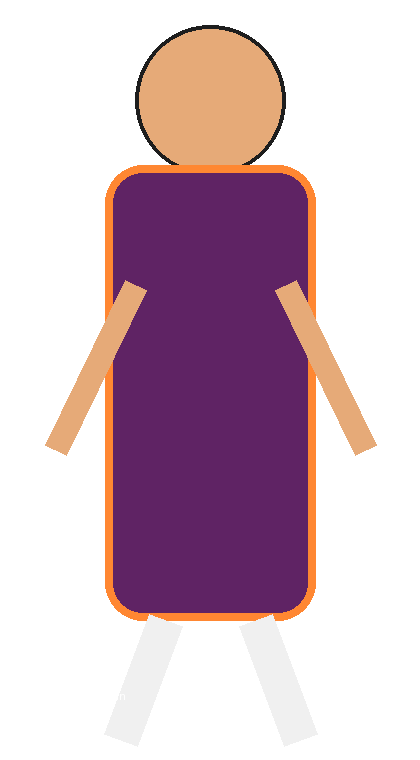
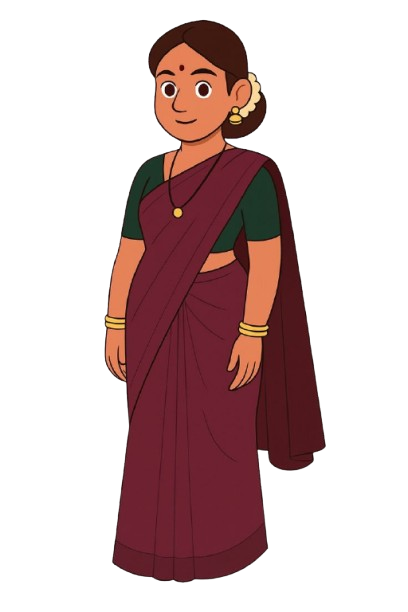
Add files via upload

diff --git a/index.html b/index.html
@@ -1,26 +1,154 @@
-<!DOCTYPE html><html><head><meta charset="UTF-8"><meta name="viewport" content="width=device-width,initial-scale=1"><title>AI Animate Studio V23</title><link rel="stylesheet" href="style.css"></head><body>
-<div class="app"><aside><div class="brand">⚡<b>AI Animate Studio</b><small>V23 One Click Actions</small></div>
-<button onclick="page('create')">🎬 Create Video</button><button onclick="page('projects')">📁 Projects</button><button onclick="page('userLogin')">👤 User Login</button><button onclick="page('adminLogin')">🔐 Admin Login</button><button class="adminBtn" onclick="page('admin')">🛠 Admin Panel</button><button class="adminBtn" onclick="adminLogout()">🚪 Admin Logout</button><div class="note"><b>Admin PIN:</b> 1234<br>One-click action + audio upload ready.</div></aside>
-<main><header><div><h1 id="title">Create Animation Video</h1><p>Script → Scenes → Character Action → Audio → Preview → Export</p></div><div><span id="loginStatus">Guest</span><button onclick="playPreview()">▶ Play</button><button class="primary" onclick="exportVideo()">⬇ Export</button></div></header>
+<!DOCTYPE html>
+<html lang="en">
+<head>
+<meta charset="UTF-8">
+<meta name="viewport" content="width=device-width,initial-scale=1">
+<title>AI Animate Studio V24</title>
+<link rel="stylesheet" href="style.css">
+</head>
+<body>
+<div class="app">
+  <aside class="dash-sidebar">
+    <div class="brand"><span>⚡</span><b>AI Animate</b><em>Studio</em></div>
+    <button class="side-link active" onclick="showPage('dashboard')">🏠 Dashboard</button>
+    <button class="side-link" onclick="showPage('projects')">📦 Projects</button>
+    <button class="side-link" onclick="showPage('editor')">🎬 Animation Studio</button>
+    <button class="side-link" onclick="showPage('adminLogin')">🔐 Admin Login</button>
+    <button class="side-link adminOnly" onclick="showPage('admin')">🛠 Admin Panel</button>
+    <button class="side-link adminOnly" onclick="adminLogout()">🚪 Admin Logout</button>
 
-<section id="create" class="page active"><div class="grid"><div class="panel">
-<h2>1. Story Script</h2><textarea id="scriptText">गावात रोहन नावाचा मुलगा राहत होता. एके दिवशी त्याला जंगलात एक रहस्यमय आवाज ऐकू आला. तो घाबरला पण पुढे गेला. शेवटी त्याने गावाला वाचवले.</textarea><button class="primary full" onclick="generateScenes()">Generate Scenes</button>
-<h2>2. Character</h2><div id="chars" class="cards"></div>
-<h2>3. Background</h2><div id="bgs" class="cards"></div>
-<h2>4. Audio Upload</h2><label class="upload">Upload Voice/Music<input type="file" accept="audio/*" onchange="uploadAudio(event)"></label><audio id="audio" controls style="display:none;width:100%"></audio>
-<button class="full" onclick="saveProject()">Save Local Project</button><button class="full" onclick="loadProject()">Load Saved Project</button></div>
+    <div class="support">❔ Help and Support</div>
+    <div class="profile">
+      <div class="avatar">G</div>
+      <div><b>Gaurav Dahatre</b><small id="planText">Free Plan</small></div>
+      <p><b id="credits">25</b> credits remaining</p>
+      <button class="upgrade">Upgrade to Pro</button>
+    </div>
+  </aside>
 
-<div class="panel"><div class="topline"><h2>Live Preview</h2><div><button onclick="playPreview()">▶</button><button onclick="stopPreview()">⏸</button><button class="primary" onclick="exportVideo()">Export</button></div></div>
-<canvas id="canvas" width="1280" height="720"></canvas><div class="progress"><span id="progress"></span></div>
-<h2>One Click Character Action</h2><div class="actionGrid">
-<button onclick="oneClickAction('Idle')">🙂 Idle</button><button onclick="oneClickAction('Talking')">🗣 Talk</button><button onclick="oneClickAction('Walking')">🚶 Walk</button><button onclick="oneClickAction('Happy')">😊 Happy</button><button onclick="oneClickAction('Angry')">😠 Angry</button><button onclick="oneClickAction('Scared')">😨 Scared</button>
+  <main class="main">
+    <header class="topbar">
+      <div></div>
+      <div class="search">🔍 <input placeholder="Search files, folders"></div>
+      <div class="userIcon">👤</div>
+    </header>
+
+    <section id="dashboard" class="page active">
+      <div class="dash-hero">
+        <h1>Monetize & Grow Faster on YouTube</h1>
+        <p>Grow faster with tailored AI tools that bring you more views, subscribers, and revenue</p>
+        <div class="promptbar">
+          <input id="dashPrompt" value="How to create AI video">
+          <button onclick="dashGenerate()">➤</button>
+        </div>
+        <div class="quick-tools">
+          <div class="tool activeTool" onclick="showPage('editor')"><span>🏃</span><b>Animation Studio</b></div>
+          <div class="tool"><span>🖼</span><b>AI Image</b></div>
+          <div class="tool"><span>🎙</span><b>AI Voice</b></div>
+          <div class="tool"><span>📹</span><b>AI Video</b></div>
+          <div class="tool"><span>📄</span><b>AI Story Writer</b></div>
+          <div class="tool"><span>🧲</span><b>YouTube SEO Writer</b></div>
+          <div class="tool"><span>💬</span><b>YouTube Feedback</b></div>
+        </div>
+      </div>
+
+      <div class="section-head"><h2>Recent Projects</h2><button>View All</button></div>
+      <div class="project-grid" id="recentProjects"></div>
+    </section>
+
+    <section id="editor" class="page">
+      <div class="editor-shell">
+        <aside class="editor-left">
+          <button>🏃<span>Character</span></button>
+          <button>📁<span>Media</span></button>
+          <button>🎞<span>Templates</span></button>
+          <button>🖼<span>Image Gen</span></button>
+          <button>🎥<span>Video Gen</span></button>
+          <button>🎙<span>AI Voice</span></button>
+          <button>🧑🎨<span>AI Character</span></button>
+          <button>🏃<span>Anim IK</span></button>
+          <button>🔤<span>Text</span></button>
+        </aside>
+
+        <div class="editor-main">
+          <div class="editor-top">
+            <button onclick="showPage('dashboard')">← Dashboard</button>
+            <b>New Project</b>
+            <span>ID: 15760847</span>
+            <button onclick="saveProject()">💾 Save</button>
+            <button class="primary" onclick="exportVideo()">⬇ Download</button>
+          </div>
+
+          <div class="canvas-wrap">
+            <canvas id="canvas" width="1280" height="720"></canvas>
+          </div>
+
+          <div class="playbar">
+            <button onclick="selectScene(Math.max(0,selectedScene-1))">⏮</button>
+            <button onclick="playPreview()">▶</button>
+            <button onclick="stopPreview()">⏸</button>
+            <button onclick="selectScene(Math.min(scenes.length-1,selectedScene+1))">⏭</button>
+            <span id="timeText">00:00</span>
+            <button onclick="zoomOut()">−</button>
+            <button onclick="zoomIn()">+</button>
+          </div>
+
+          <div class="editor-actions">
+            <button onclick="addScene()">+ New Scene</button>
+            <button onclick="duplicateScene()">Duplicate</button>
+            <button onclick="deleteScene()">Delete</button>
+            <button onclick="oneClickAction('Walking')">Walk</button>
+            <button onclick="oneClickAction('Talking')">Talk</button>
+            <button onclick="oneClickAction('Idle')">Idle</button>
+            <label class="mini-upload">Audio<input type="file" accept="audio/*" onchange="uploadAudio(event)"></label>
+            <audio id="audio" controls style="display:none"></audio>
+          </div>
+
+          <div class="timeline-editor">
+            <div class="row"><b>Scenes</b><div id="sceneTrack" class="track"></div></div>
+            <div class="row"><b>Character</b><div id="charTrack" class="track"></div></div>
+            <div class="row"><b>Text</b><div id="textTrack" class="track"></div></div>
+            <div class="row"><b>Audio</b><div id="audioTrack" class="track audioTrack">Voice / Music track</div></div>
+          </div>
+        </div>
+
+        <aside class="editor-right">
+          <h3>Asset Library</h3>
+          <button onclick="showPage('admin')">+ Add Assets</button>
+          <h3>Scene Editor</h3>
+          <textarea id="sceneEdit"></textarea>
+          <label>Action</label>
+          <select id="action"><option>Idle</option><option>Talking</option><option>Walking</option><option>Happy</option><option>Angry</option><option>Scared</option></select>
+          <label>Position</label>
+          <select id="pos"><option value="center">Center</option><option value="left">Left</option><option value="right">Right</option></select>
+          <button class="primary full" onclick="updateScene()">Update Scene</button>
+
+          <h3>Characters</h3>
+          <div id="chars" class="small-cards"></div>
+          <h3>Backgrounds</h3>
+          <div id="bgs" class="small-cards"></div>
+          <h3>Export</h3>
+          <button class="primary full" onclick="exportVideo()">Export WebM</button>
+        </aside>
+      </div>
+    </section>
+
+    <section id="adminLogin" class="page">
+      <div class="login panel"><h2>Admin Login</h2><input id="adminPin" type="password" placeholder="PIN"><button class="primary full" onclick="adminLogin()">Login</button><p>PIN: 1234</p></div>
+    </section>
+
+    <section id="admin" class="page">
+      <div class="adminGrid">
+        <div class="panel"><h2>Add Character</h2><input id="charName" placeholder="Character name"><label class="upload">Upload PNG<input type="file" accept="image/*" onchange="pickChar(event)"></label><div id="charPreview" class="previewMini"></div><button class="primary full" onclick="addChar()">Add Character</button></div>
+        <div class="panel"><h2>Add Background</h2><input id="bgName" placeholder="Background name"><label class="upload">Upload Background<input type="file" accept="image/*" onchange="pickBg(event)"></label><div id="bgPreview" class="previewMini"></div><button class="primary full" onclick="addBg()">Add Background</button></div>
+        <div class="panel"><h2>Admin Assets</h2><button class="danger full" onclick="clearAssets()">Clear Added Assets</button><h3>Characters</h3><div id="adminChars"></div><h3>Backgrounds</h3><div id="adminBgs"></div></div>
+      </div>
+    </section>
+
+    <section id="projects" class="page"><div class="panel"><h2>Projects</h2><div id="projects"></div></div></section>
+  </main>
 </div>
-<h2>Timeline</h2><div id="timeline" class="timeline"></div></div>
-
-<div class="panel"><h2>Scene Editor</h2><label>Scene Text</label><textarea id="sceneEdit"></textarea><label>Action</label><select id="action"><option>Idle</option><option>Talking</option><option>Walking</option><option>Happy</option><option>Angry</option><option>Scared</option></select><label>Position</label><select id="pos"><option value="center">Center</option><option value="left">Left</option><option value="right">Right</option></select><button class="primary full" onclick="updateScene()">Update Scene</button><button class="full" onclick="duplicateScene()">Duplicate</button><button class="danger full" onclick="deleteScene()">Delete</button><h3>V23</h3><p>Action buttons scene वर one-click apply होतात. Audio upload करून preview मध्ये play करता येतो.</p></div></div></section>
-
-<section id="adminLogin" class="page"><div class="login panel"><h2>Admin Login</h2><input id="adminPin" type="password" placeholder="PIN"><button class="primary full" onclick="adminLogin()">Login</button></div></section>
-<section id="userLogin" class="page"><div class="login panel"><h2>User Login Demo</h2><input id="userName" placeholder="Your name"><button class="primary full" onclick="userLogin()">Continue</button></div></section>
-<section id="admin" class="page"><div class="adminGrid"><div class="panel"><h2>Add Character</h2><input id="charName" placeholder="Character name"><label class="upload">Upload PNG<input type="file" accept="image/*" onchange="pickChar(event)"></label><div id="charPreview" class="previewMini"></div><button class="primary full" onclick="addChar()">Add Character</button></div><div class="panel"><h2>Add Background</h2><input id="bgName" placeholder="Background name"><label class="upload">Upload Background<input type="file" accept="image/*" onchange="pickBg(event)"></label><div id="bgPreview" class="previewMini"></div><button class="primary full" onclick="addBg()">Add Background</button></div><div class="panel"><h2>Admin Assets</h2><button class="danger full" onclick="clearAssets()">Clear Added Assets</button><h3>Characters</h3><div id="adminChars"></div><h3>Backgrounds</h3><div id="adminBgs"></div></div></div></section>
-<section id="projects" class="page"><div class="panel"><h2>Saved Projects</h2><div id="projects"></div></div></section>
-</main></div><div id="loading" class="loading"><div><h2>Rendering Video...</h2><p>Please wait</p></div></div><script src="script.js"></script></body></html>
+<div id="loading" class="loading"><div><h2>Rendering Video...</h2><p>Please wait</p></div></div>
+<script src="script.js"></script>
+</body>
+</html>

diff --git a/script.js b/script.js
@@ -1,45 +1,43 @@
-const PIN="1234";
-let isAdmin=localStorage.getItem("isAdmin")==="true", user=localStorage.getItem("user")||"Guest";
-const defaultChars=[
-{name:"Village Hero",img:"assets/characters/village-hero/idle.png",frames:["assets/characters/village-hero/walk1.png","assets/characters/village-hero/walk2.png","assets/characters/village-hero/walk3.png","assets/characters/village-hero/walk4.png","assets/characters/village-hero/walk5.png"],talk:"assets/characters/village-hero/talk.png",happy:"assets/characters/village-hero/happy.png",idle:"assets/characters/village-hero/idle.png"},
-{name:"Village Woman",img:"assets/characters/village-woman.png"},
-{name:"Grandmother",img:"assets/characters/grandmother.png"},
-{name:"Villain Man",img:"assets/characters/villain-man.png"}];
+const PIN="1234";let isAdmin=localStorage.getItem("isAdmin")==="true";
+const defaultChars=[{name:"Village Hero",img:"assets/characters/village-hero/idle.png",frames:["assets/characters/village-hero/walk1.png","assets/characters/village-hero/walk2.png","assets/characters/village-hero/walk3.png","assets/characters/village-hero/walk4.png","assets/characters/village-hero/walk5.png"],talk:"assets/characters/village-hero/talk.png",happy:"assets/characters/village-hero/happy.png",idle:"assets/characters/village-hero/idle.png"},{name:"Village Woman",img:"assets/characters/village-woman.png"},{name:"Grandmother",img:"assets/characters/grandmother.png"},{name:"Villain Man",img:"assets/characters/villain-man.png"}];
 const defaultBgs=[{name:"Village",type:"preset",value:"village"},{name:"Forest",type:"preset",value:"forest"},{name:"School",type:"preset",value:"school"},{name:"Horror",type:"preset",value:"horror"},{name:"City",type:"preset",value:"city"}];
-let chars=[...defaultChars,...JSON.parse(localStorage.getItem("adminChars")||"[]")], bgs=[...defaultBgs,...JSON.parse(localStorage.getItem("adminBgs")||"[]")];
-let selectedChar=chars[0], selectedBg=bgs[0], scenes=[], selectedScene=0, imgs={}, timer=null, tempChar=null, tempBg=null, audioUrl=null;
-const canvas=document.getElementById("canvas"),ctx=canvas.getContext("2d"); const $=id=>document.getElementById(id);
-function page(id){document.querySelectorAll(".page").forEach(p=>p.classList.remove("active"));$(id).classList.add("active"); if(id==="admin"&&!isAdmin){alert("Admin login required");page("adminLogin")} renderAdmin();}
-function adminLogin(){if($("adminPin").value===PIN){isAdmin=true;localStorage.setItem("isAdmin","true");ui();page("admin")}else alert("Wrong PIN")}
-function adminLogout(){isAdmin=false;localStorage.removeItem("isAdmin");ui();page("create")}
-function userLogin(){user=$("userName").value||"User";localStorage.setItem("user",user);ui();page("create")}
-function ui(){$("loginStatus").textContent=user+(isAdmin?" • Admin":"");document.querySelectorAll(".adminBtn").forEach(b=>b.style.display=isAdmin?"block":"none")}
+let chars=[...defaultChars,...JSON.parse(localStorage.getItem("adminChars")||"[]")],bgs=[...defaultBgs,...JSON.parse(localStorage.getItem("adminBgs")||"[]")];
+let selectedChar=chars[0],selectedBg=bgs[0],scenes=[],selectedScene=0,imgs={},timer=null,tempChar=null,tempBg=null,audioUrl=null,zoom=1;
+const canvas=document.getElementById("canvas"),ctx=canvas.getContext("2d");const $=id=>document.getElementById(id);
+function showPage(id){document.querySelectorAll(".page").forEach(p=>p.classList.remove("active"));$(id).classList.add("active");document.querySelectorAll(".side-link").forEach(b=>b.classList.remove("active"));renderAdmin();if(id==="admin"&&!isAdmin){alert("Admin login required");showPage("adminLogin")}}
+function adminLogin(){if($("adminPin").value===PIN){isAdmin=true;localStorage.setItem("isAdmin","true");ui();showPage("admin")}else alert("Wrong PIN")}
+function adminLogout(){isAdmin=false;localStorage.removeItem("isAdmin");ui();showPage("dashboard")}
+function ui(){document.querySelectorAll(".adminOnly").forEach(b=>b.style.display=isAdmin?"block":"none")}
 function preload(){chars.forEach(c=>[c.img,c.talk,c.happy,c.idle,...(c.frames||[])].filter(Boolean).forEach(src=>{let im=new Image();im.src=src;imgs[src]=im}))}
 function renderChars(){$("chars").innerHTML=chars.map((c,i)=>`<div class="card ${i==0?'active':''}" onclick="selectChar(${i})"><img src="${c.img}" onerror="this.style.display='none'"><b>${c.name}</b></div>`).join("")}
 function renderBgs(){$("bgs").innerHTML=bgs.map((b,i)=>`<div class="card ${i==0?'active':''}" onclick="selectBg(${i})"><div class="bgthumb" style="${b.type==='image'?'background-image:url('+b.value+')':''}"></div><b>${b.name}</b></div>`).join("")}
 function selectChar(i){selectedChar=chars[i];document.querySelectorAll("#chars .card").forEach((x,n)=>x.classList.toggle("active",n===i));scenes.forEach(s=>Object.assign(s,{character:selectedChar.name,img:selectedChar.img,frames:selectedChar.frames||[],talk:selectedChar.talk||selectedChar.img,happy:selectedChar.happy||selectedChar.img,idle:selectedChar.idle||selectedChar.img}));draw(scenes[selectedScene]);renderTimeline()}
 function selectBg(i){selectedBg=bgs[i];document.querySelectorAll("#bgs .card").forEach((x,n)=>x.classList.toggle("active",n===i));scenes.forEach(s=>{s.bg=selectedBg.value;s.bgType=selectedBg.type});draw(scenes[selectedScene])}
-function generateScenes(){let parts=$("scriptText").value.split(/[.।\n]+/).map(x=>x.trim()).filter(Boolean).slice(0,8);scenes=parts.map((text,i)=>({text,bg:selectedBg.value,bgType:selectedBg.type,character:selectedChar.name,img:selectedChar.img,frames:selectedChar.frames||[],talk:selectedChar.talk||selectedChar.img,happy:selectedChar.happy||selectedChar.img,idle:selectedChar.idle||selectedChar.img,action:i%2?"Walking":"Talking",pos:"center"}));selectedScene=0;renderTimeline();selectScene(0)}
-function renderTimeline(){$("timeline").innerHTML=scenes.map((s,i)=>`<div class="clip ${i===selectedScene?'active':''}" onclick="selectScene(${i})"><b>Scene ${i+1}</b><br><small>${s.action} • ${s.text.slice(0,20)}...</small></div>`).join("")}
+function generateScenes(){let txt=document.getElementById("dashPrompt")?.value||$("sceneEdit")?.value||"गावात एक मुलगा राहत होता.";let parts=(document.getElementById("dashPrompt")?.value?["गावात एक नवीन कथा सुरू झाली","मुलगा धैर्याने पुढे गेला","शेवटी गावात आनंद पसरला"]:["गावात रोहन नावाचा मुलगा राहत होता","त्याला जंगलात आवाज ऐकू आला","तो घाबरला पण पुढे गेला","शेवटी त्याने गावाला वाचवले"]);scenes=parts.map((text,i)=>({text,bg:selectedBg.value,bgType:selectedBg.type,character:selectedChar.name,img:selectedChar.img,frames:selectedChar.frames||[],talk:selectedChar.talk||selectedChar.img,happy:selectedChar.happy||selectedChar.img,idle:selectedChar.idle||selectedChar.img,action:i%2?"Walking":"Talking",pos:"center"}));selectedScene=0;renderTimeline();selectScene(0)}
+function dashGenerate(){generateScenes();showPage("editor")}
+function renderTimeline(){let clips=scenes.map((s,i)=>`<div class="clip ${i===selectedScene?'active':''}" onclick="selectScene(${i})"><b>Scene ${i+1}</b><br>${s.action}</div>`).join("");["sceneTrack","charTrack","textTrack"].forEach((id,idx)=>{let el=$(id);if(el)el.innerHTML=clips});}
 function selectScene(i){selectedScene=i;let s=scenes[i];if(!s)return;$("sceneEdit").value=s.text;$("action").value=s.action;$("pos").value=s.pos;draw(s);renderTimeline()}
 function bg(s){let w=canvas.width,h=canvas.height;if(s&&s.bgType==="image"){let im=new Image();im.src=s.bg;if(im.complete)ctx.drawImage(im,0,0,w,h);else im.onload=()=>draw(s);return}let c={village:["#8bd3ff","#f9e29f","#22c55e"],forest:["#064e3b","#14532d","#052e16"],school:["#93c5fd","#fef3c7","#c084fc"],horror:["#111827","#374151","#020617"],city:["#60a5fa","#1e293b","#0f172a"]}[s?.bg||"village"];let g=ctx.createLinearGradient(0,0,0,h);g.addColorStop(0,c[0]);g.addColorStop(.55,c[1]);g.addColorStop(.7,c[2]);ctx.fillStyle=g;ctx.fillRect(0,0,w,h)}
 function src(s,p=0){let a=(s.action||"Idle").toLowerCase();if(a==="walking"&&s.frames?.length)return s.frames[Math.floor(p*s.frames.length)%s.frames.length];if(a==="happy"&&s.happy)return s.happy;if(a==="talking"&&s.talk)return s.talk;if(a==="idle"&&s.idle)return s.idle;return s.img}
-function draw(s,p=0){ctx.clearRect(0,0,canvas.width,canvas.height);bg(s);if(!s)return;let w=canvas.width,h=canvas.height,source=src(s,p),im=imgs[source]||new Image();if(!imgs[source]){im.src=source;imgs[source]=im}let cw=w*.25,ch=cw*1.45,x=w/2-cw/2,y=h*.73-ch;if(s.pos==="left")x=w*.18-cw/2;if(s.pos==="right")x=w*.82-cw/2;if(s.action==="Walking")x+=Math.sin(p*Math.PI*2)*w*.08;if(s.action==="Happy")y+=Math.sin(p*Math.PI*2)*-16;if(s.action==="Angry"||s.action==="Scared")x+=Math.sin(p*Math.PI*8)*8;if(im.complete&&im.naturalWidth)ctx.drawImage(im,x,y,cw,ch);else{ctx.fillStyle="#222";ctx.fillRect(x,y,cw,ch)}ctx.fillStyle="#000b";ctx.fillRect(w*.06,h-110,w*.88,70);ctx.fillStyle="#fff";ctx.textAlign="center";ctx.font="bold 30px Arial";ctx.fillText(s.text,w/2,h-66)}
-function oneClickAction(action){if(!scenes.length)generateScenes();scenes[selectedScene].action=action;$("action").value=action;draw(scenes[selectedScene]);renderTimeline()}
-function playPreview(){if(!scenes.length)generateScenes();let i=0,f=0;clearInterval(timer);if(audioUrl){$("audio").currentTime=0;$("audio").play()}timer=setInterval(()=>{selectedScene=i;draw(scenes[i],(f%60)/60);$("progress").style.width=((i+1)/scenes.length*100)+"%";f++;if(f%67===0){i=(i+1)%scenes.length;renderTimeline()}},33)}
-function stopPreview(){clearInterval(timer);$("audio").pause()}
-function updateScene(){if(!scenes.length)generateScenes();Object.assign(scenes[selectedScene],{text:$("sceneEdit").value,action:$("action").value,pos:$("pos").value});draw(scenes[selectedScene]);renderTimeline()}
+function draw(s,p=0){ctx.clearRect(0,0,canvas.width,canvas.height);bg(s);if(!s)return;let w=canvas.width,h=canvas.height,source=src(s,p),im=imgs[source]||new Image();if(!imgs[source]){im.src=source;imgs[source]=im}let cw=w*.23*zoom,ch=cw*1.45,x=w/2-cw/2,y=h*.73-ch;if(s.pos==="left")x=w*.2-cw/2;if(s.pos==="right")x=w*.8-cw/2;if(s.action==="Walking")x+=Math.sin(p*Math.PI*2)*w*.08;if(s.action==="Happy")y+=Math.sin(p*Math.PI*2)*-16;if(s.action==="Angry"||s.action==="Scared")x+=Math.sin(p*Math.PI*8)*8;if(im.complete&&im.naturalWidth)ctx.drawImage(im,x,y,cw,ch);else{ctx.fillStyle="#222";ctx.fillRect(x,y,cw,ch)}ctx.fillStyle="#000b";ctx.fillRect(w*.06,h-110,w*.88,70);ctx.fillStyle="#fff";ctx.textAlign="center";ctx.font="bold 30px Arial";ctx.fillText(s.text,w/2,h-66)}
+function oneClickAction(a){if(!scenes.length)generateScenes();scenes[selectedScene].action=a;$("action").value=a;draw(scenes[selectedScene]);renderTimeline()}
+function addScene(){if(!scenes.length)generateScenes();scenes.push({...scenes[selectedScene],text:"New Scene"});selectScene(scenes.length-1)}
 function duplicateScene(){scenes.splice(selectedScene+1,0,{...scenes[selectedScene]});renderTimeline()}
 function deleteScene(){scenes.splice(selectedScene,1);selectedScene=Math.max(0,selectedScene-1);renderTimeline();draw(scenes[selectedScene])}
-function uploadAudio(e){let f=e.target.files[0];if(!f)return;audioUrl=URL.createObjectURL(f);$("audio").src=audioUrl;$("audio").style.display="block"}
-function saveProject(){localStorage.setItem("projects",JSON.stringify([{title:"Saved Project",scenes},...JSON.parse(localStorage.getItem("projects")||"[]")]));alert("Saved ✅");loadProjects()}
-function loadProject(){let p=JSON.parse(localStorage.getItem("projects")||"[]")[0];if(!p)return alert("No project");scenes=p.scenes;selectScene(0)}
-function loadProjects(){if(!$("projects"))return;let p=JSON.parse(localStorage.getItem("projects")||"[]");$("projects").innerHTML=p.map(x=>`<div class="asset"><b>${x.title}</b><br>${x.scenes.length} scenes</div>`).join("")||"No projects"}
-async function exportVideo(){if(!scenes.length)generateScenes();$("loading").style.display="grid";let stream=canvas.captureStream(30),rec=new MediaRecorder(stream,{mimeType:"video/webm"}),chunks=[];rec.ondataavailable=e=>{if(e.data.size)chunks.push(e.data)};rec.onstop=()=>{let blob=new Blob(chunks,{type:"video/webm"}),a=document.createElement("a");a.href=URL.createObjectURL(blob);a.download="ai-animate-v23-video.webm";a.click();$("loading").style.display="none"};rec.start();let si=0,f=0,total=90*scenes.length;let r=setInterval(()=>{draw(scenes[si],(f%90)/90);f++;if(f%90===0)si++;if(f>=total){clearInterval(r);setTimeout(()=>rec.stop(),250)}},33)}
+function updateScene(){Object.assign(scenes[selectedScene],{text:$("sceneEdit").value,action:$("action").value,pos:$("pos").value});draw(scenes[selectedScene]);renderTimeline()}
+function playPreview(){if(!scenes.length)generateScenes();let i=0,f=0;clearInterval(timer);if(audioUrl){$("audio").currentTime=0;$("audio").play()}timer=setInterval(()=>{selectedScene=i;draw(scenes[i],(f%60)/60);f++;if(f%67===0){i=(i+1)%scenes.length;renderTimeline()}},33)}
+function stopPreview(){clearInterval(timer);if(audioUrl)$("audio").pause()}
+function zoomIn(){zoom+=.1;draw(scenes[selectedScene])}function zoomOut(){zoom=Math.max(.5,zoom-.1);draw(scenes[selectedScene])}
+function uploadAudio(e){let f=e.target.files[0];if(!f)return;audioUrl=URL.createObjectURL(f);$("audio").src=audioUrl;$("audio").style.display="inline-block";$("audioTrack").innerHTML="🎵 "+f.name}
+function saveProject(){let projects=JSON.parse(localStorage.getItem("projects")||"[]");projects.unshift({title:"New Project "+(projects.length+1),scenes});localStorage.setItem("projects",JSON.stringify(projects));renderProjects();alert("Saved ✅")}
+function renderProjects(){let p=JSON.parse(localStorage.getItem("projects")||"[]");$("recentProjects").innerHTML=(p.length?p:[1,2,3,4].map((n)=>({title:"New Project "+n,scenes:[]}))).map(x=>`<div class="project-card"><b>${x.title}</b></div>`).join("");if($("projects"))$("projects").innerHTML=p.map(x=>`<div class="asset">${x.title} • ${x.scenes.length} scenes</div>`).join("")||"No projects"}
+async function exportVideo(){if(!scenes.length)generateScenes();$("loading").style.display="grid";let stream=canvas.captureStream(30),rec=new MediaRecorder(stream,{mimeType:"video/webm"}),chunks=[];rec.ondataavailable=e=>{if(e.data.size)chunks.push(e.data)};rec.onstop=()=>{let blob=new Blob(chunks,{type:"video/webm"}),a=document.createElement("a");a.href=URL.createObjectURL(blob);a.download="ai-animate-v24-video.webm";a.click();$("loading").style.display="none"};rec.start();let si=0,f=0,total=90*scenes.length;let r=setInterval(()=>{draw(scenes[si],(f%90)/90);f++;if(f%90===0)si++;if(f>=total){clearInterval(r);setTimeout(()=>rec.stop(),250)}},33)}
+function adminLogin(){if($("adminPin").value===PIN){isAdmin=true;localStorage.setItem("isAdmin","true");ui();showPage("admin")}else alert("Wrong PIN")}
+function adminLogout(){isAdmin=false;localStorage.removeItem("isAdmin");ui();showPage("dashboard")}
 function pickChar(e){let file=e.target.files[0];if(!file)return;let r=new FileReader();r.onload=()=>{tempChar=r.result;$("charPreview").innerHTML=`<img src="${tempChar}">`};r.readAsDataURL(file)}
 function pickBg(e){let file=e.target.files[0];if(!file)return;let r=new FileReader();r.onload=()=>{tempBg=r.result;$("bgPreview").innerHTML=`<img src="${tempBg}" style="width:100%;height:150px;object-fit:cover">`};r.readAsDataURL(file)}
-function addChar(){if(!isAdmin)return alert("Admin only");let list=JSON.parse(localStorage.getItem("adminChars")||"[]");list.push({name:$("charName").value||"New Character",img:tempChar});localStorage.setItem("adminChars",JSON.stringify(list));location.reload()}
-function addBg(){if(!isAdmin)return alert("Admin only");let list=JSON.parse(localStorage.getItem("adminBgs")||"[]");list.push({name:$("bgName").value||"New Background",type:"image",value:tempBg});localStorage.setItem("adminBgs",JSON.stringify(list));location.reload()}
+function addChar(){let list=JSON.parse(localStorage.getItem("adminChars")||"[]");list.push({name:$("charName").value||"New Character",img:tempChar});localStorage.setItem("adminChars",JSON.stringify(list));location.reload()}
+function addBg(){let list=JSON.parse(localStorage.getItem("adminBgs")||"[]");list.push({name:$("bgName").value||"New Background",type:"image",value:tempBg});localStorage.setItem("adminBgs",JSON.stringify(list));location.reload()}
 function renderAdmin(){if(!$("adminChars"))return;$("adminChars").innerHTML=JSON.parse(localStorage.getItem("adminChars")||"[]").map(x=>`<div class="asset">${x.name}</div>`).join("")||"No characters";$("adminBgs").innerHTML=JSON.parse(localStorage.getItem("adminBgs")||"[]").map(x=>`<div class="asset">${x.name}</div>`).join("")||"No backgrounds"}
 function clearAssets(){localStorage.removeItem("adminChars");localStorage.removeItem("adminBgs");location.reload()}
-ui();renderChars();renderBgs();preload();generateScenes();loadProjects();
+ui();renderChars();renderBgs();preload();generateScenes();renderProjects();

diff --git a/style.css b/style.css
@@ -1,1 +1,1 @@
-*{box-sizing:border-box}body{margin:0;font-family:Arial;background:#070816;color:white}button,input,textarea,select{font:inherit}button{border:0;background:#1f2937;color:white;padding:10px 14px;border-radius:12px;font-weight:700;cursor:pointer}.primary{background:linear-gradient(135deg,#7c3aed,#2563eb)}.danger{background:#7f1d1d}.full{width:100%;margin-top:10px}.app{display:flex;min-height:100vh}aside{width:250px;background:#0b1020;padding:20px}aside button{width:100%;margin:7px 0;text-align:left}.brand{font-size:25px;color:#c084fc;margin-bottom:20px}.brand b{display:block;color:white}.brand small{display:block;color:#aaa;font-size:12px}.note{background:#111827;padding:14px;border-radius:16px;margin-top:20px;color:#cbd5e1}main{flex:1;padding:20px}header{display:flex;justify-content:space-between;align-items:center;margin-bottom:18px}header h1{margin:0;font-size:32px}header p{color:#cbd5e1}.page{display:none}.page.active{display:block}.grid{display:grid;grid-template-columns:330px minmax(480px,1fr) 300px;gap:16px}.panel{background:rgba(255,255,255,.07);border:1px solid rgba(255,255,255,.1);border-radius:24px;padding:18px}textarea,input,select{width:100%;background:#111827;color:white;border:1px solid #374151;border-radius:12px;padding:12px;margin:8px 0 12px}#scriptText{height:145px}.cards{display:grid;grid-template-columns:1fr 1fr;gap:10px}.card{background:#111827;border:2px solid transparent;border-radius:16px;padding:10px;text-align:center;cursor:pointer}.card.active{border-color:#9333ea;background:#241044}.card img{height:85px;max-width:100%;object-fit:contain}.bgthumb{height:72px;border-radius:12px;background:linear-gradient(#8bd3ff 0 55%,#22c55e 55%);background-size:cover;background-position:center}.upload{display:block;text-align:center;background:#111827;border:2px dashed #374151;border-radius:16px;padding:16px;cursor:pointer}.upload input{display:none}canvas{width:100%;background:#111827;border-radius:18px;display:block;max-height:520px}.topline{display:flex;justify-content:space-between;align-items:center}.progress{height:5px;background:#1f2937;border-radius:99px;margin:12px 0}.progress span{display:block;height:100%;width:0;background:#9333ea;border-radius:99px}.timeline{display:flex;gap:8px;overflow:auto;background:#0b1020;border-radius:14px;padding:10px}.clip{min-width:150px;background:#312e81;border-radius:12px;padding:10px}.clip.active{outline:2px solid #60a5fa}.actionGrid{display:grid;grid-template-columns:repeat(3,1fr);gap:8px;margin:8px 0 18px}.actionGrid button{background:#241044;border:1px solid #9333ea}.login{max-width:420px;margin:60px auto}.adminGrid{display:grid;grid-template-columns:1fr 1fr 1fr;gap:16px}.previewMini{min-height:140px;background:#111827;border-radius:16px;display:grid;place-items:center;overflow:hidden}.previewMini img{max-width:100%;max-height:160px}.asset{background:#111827;padding:10px;border-radius:12px;margin:8px 0}.loading{display:none;position:fixed;inset:0;background:#000b;place-items:center}.loading div{background:#0b1020;padding:25px;border-radius:20px}@media(max-width:1100px){.app{display:block}aside{width:100%;display:flex;gap:8px;overflow:auto}.brand{min-width:210px}.grid,.adminGrid{grid-template-columns:1fr}header{display:block}.actionGrid{grid-template-columns:1fr 1fr}}
+*{box-sizing:border-box}body{margin:0;background:#070816;color:#fff;font-family:Inter,Arial,sans-serif}button,input,textarea,select{font:inherit}button{border:0;background:#1f2937;color:white;border-radius:12px;padding:10px 14px;font-weight:800;cursor:pointer}.primary{background:linear-gradient(135deg,#7c3aed,#2563eb)}.danger{background:#7f1d1d}.full{width:100%;margin-top:10px}.app{display:flex;min-height:100vh}.dash-sidebar{width:250px;background:#11121a;padding:22px;border-right:1px solid rgba(255,255,255,.08);display:flex;flex-direction:column;gap:8px}.brand{font-size:26px;color:#fff;margin-bottom:18px}.brand span{color:#60a5fa}.brand b{margin-left:5px}.brand em{color:#60a5fa;font-style:normal}.side-link{width:100%;text-align:left;background:transparent}.side-link.active,.side-link:hover{background:rgba(255,255,255,.08)}.support{margin-top:auto;color:#cbd5e1;padding:12px}.profile{background:rgba(255,255,255,.07);border-radius:18px;padding:15px}.profile small{display:block;color:#cbd5e1}.avatar,.userIcon{width:36px;height:36px;border-radius:50%;background:#334155;display:grid;place-items:center}.upgrade{background:#2563eb;width:100%}.main{flex:1;min-width:0}.topbar{height:68px;display:flex;justify-content:flex-end;align-items:center;padding:0 25px;gap:18px}.search{background:rgba(255,255,255,.08);border-radius:18px;padding:10px 14px}.search input{background:transparent;border:0;color:#fff;outline:0}.page{display:none;padding:22px}.page.active{display:block}.dash-hero{max-width:980px;margin:70px auto 35px;text-align:center;background:radial-gradient(circle at top,rgba(255,255,255,.08),transparent 70%);padding:25px;border-radius:28px}.dash-hero h1{font-size:34px}.dash-hero p{color:#d1d5db}.promptbar{display:flex;max-width:850px;margin:24px auto;background:rgba(255,255,255,.12);border:1px solid rgba(255,255,255,.12);border-radius:999px;padding:10px}.promptbar input{flex:1;background:transparent;border:0;color:#fff;outline:0;padding:0 18px}.promptbar button{border-radius:999px;background:#3b82f6}.quick-tools{display:flex;gap:22px;justify-content:center;flex-wrap:wrap}.tool{width:95px;text-align:center;cursor:pointer}.tool span{width:58px;height:58px;display:grid;place-items:center;margin:auto;border-radius:50%;background:#1f2937;font-size:24px}.activeTool span{outline:4px solid #2563eb;background:#f8fafc;color:#111}.tool b{display:block;font-size:12px;margin-top:7px}.section-head{display:flex;justify-content:space-between;align-items:center}.project-grid{display:grid;grid-template-columns:repeat(4,1fr);gap:18px}.project-card{height:150px;background:rgba(255,255,255,.08);border-radius:20px;padding:14px;display:flex;align-items:end}.editor-shell{display:grid;grid-template-columns:86px 1fr 320px;height:calc(100vh - 44px);gap:12px}.editor-left,.editor-right,.editor-main{background:#101116;border:1px solid rgba(255,255,255,.08);border-radius:18px}.editor-left{display:flex;flex-direction:column;gap:8px;padding:10px}.editor-left button{background:transparent;padding:10px 6px}.editor-left span{display:block;font-size:11px;color:#cbd5e1}.editor-main{padding:12px;display:flex;flex-direction:column;min-width:0}.editor-top{height:42px;display:flex;align-items:center;gap:12px}.canvas-wrap{flex:1;display:grid;place-items:center;background:#0b0c11;border-radius:16px;min-height:260px}canvas{width:78%;max-height:430px;background:#fff;border-radius:4px}.playbar{display:flex;gap:10px;align-items:center;justify-content:center;padding:10px}.editor-actions{display:flex;gap:8px;align-items:center;overflow:auto}.mini-upload{background:#1f2937;border-radius:12px;padding:10px 14px;font-weight:800}.mini-upload input,.upload input{display:none}.timeline-editor{height:220px;background:#080910;border-radius:16px;margin-top:10px;padding:10px;overflow:auto}.row{display:grid;grid-template-columns:90px 1fr;gap:8px;margin:8px 0}.track{display:flex;gap:8px;min-height:42px;background:#12141d;border-radius:10px;padding:6px;overflow:auto}.clip{min-width:140px;background:#312e81;border-radius:8px;padding:8px;font-size:12px}.clip.active{outline:2px solid #60a5fa}.audioTrack{background:linear-gradient(90deg,#155e75,#7e22ce);color:#fff}.editor-right{padding:14px;overflow:auto}textarea,input,select{width:100%;background:#111827;color:white;border:1px solid #374151;border-radius:12px;padding:10px;margin:7px 0 12px}.small-cards{display:grid;grid-template-columns:1fr 1fr;gap:8px}.card{background:#1f2937;border:2px solid transparent;border-radius:14px;padding:8px;text-align:center;cursor:pointer}.card.active{border-color:#9333ea}.card img{height:65px;max-width:100%;object-fit:contain}.bgthumb{height:55px;border-radius:10px;background:linear-gradient(#8bd3ff 0 55%,#22c55e 55%);background-size:cover;background-position:center}.panel{background:rgba(255,255,255,.07);border:1px solid rgba(255,255,255,.1);border-radius:24px;padding:18px}.login{max-width:420px;margin:80px auto}.adminGrid{display:grid;grid-template-columns:1fr 1fr 1fr;gap:16px}.upload{display:block;text-align:center;background:#111827;border:2px dashed #374151;border-radius:16px;padding:16px}.previewMini{min-height:140px;background:#111827;border-radius:16px;display:grid;place-items:center}.previewMini img{max-width:100%;max-height:160px}.asset{background:#111827;padding:10px;border-radius:12px;margin:8px 0}.loading{display:none;position:fixed;inset:0;background:#000b;place-items:center}.loading div{background:#0b1020;padding:25px;border-radius:20px}@media(max-width:1100px){.app{display:block}.dash-sidebar{width:100%;height:auto;flex-direction:row;overflow:auto}.side-link{min-width:140px}.profile,.support{display:none}.project-grid{grid-template-columns:1fr 1fr}.editor-shell{grid-template-columns:1fr;height:auto}.editor-left{flex-direction:row;overflow:auto}.editor-right{order:2}canvas{width:100%}.adminGrid{grid-template-columns:1fr}}